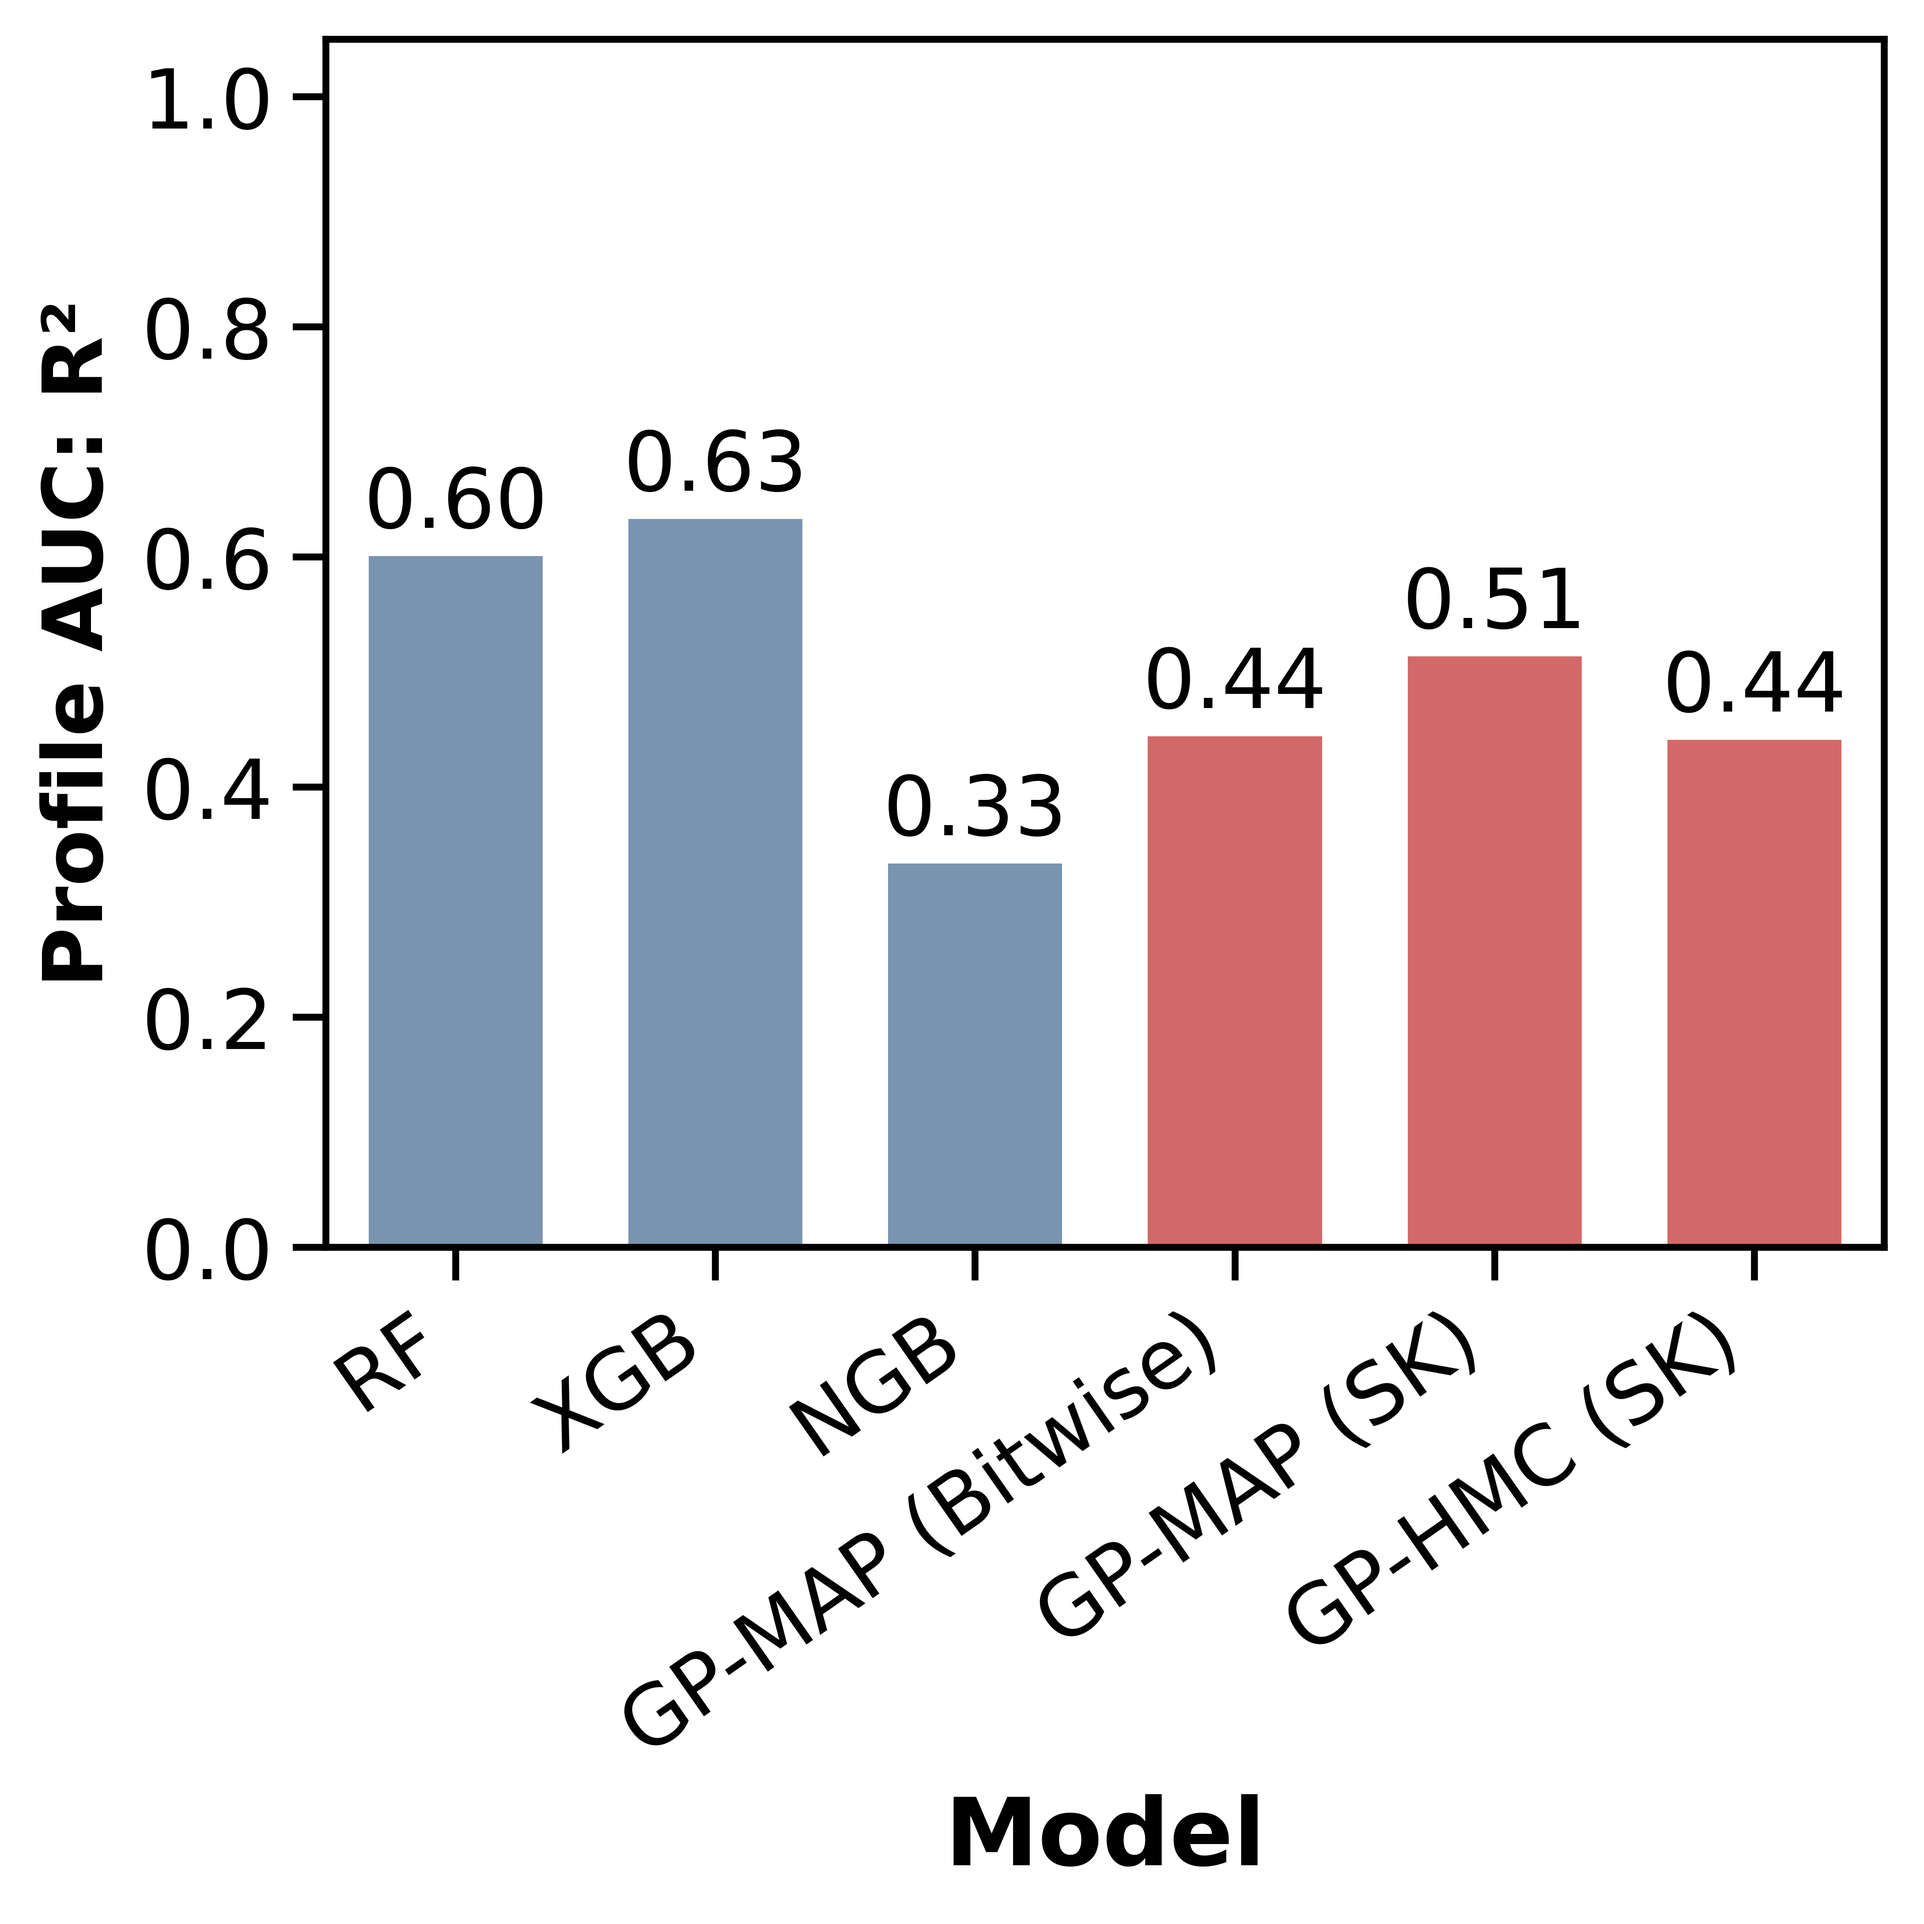
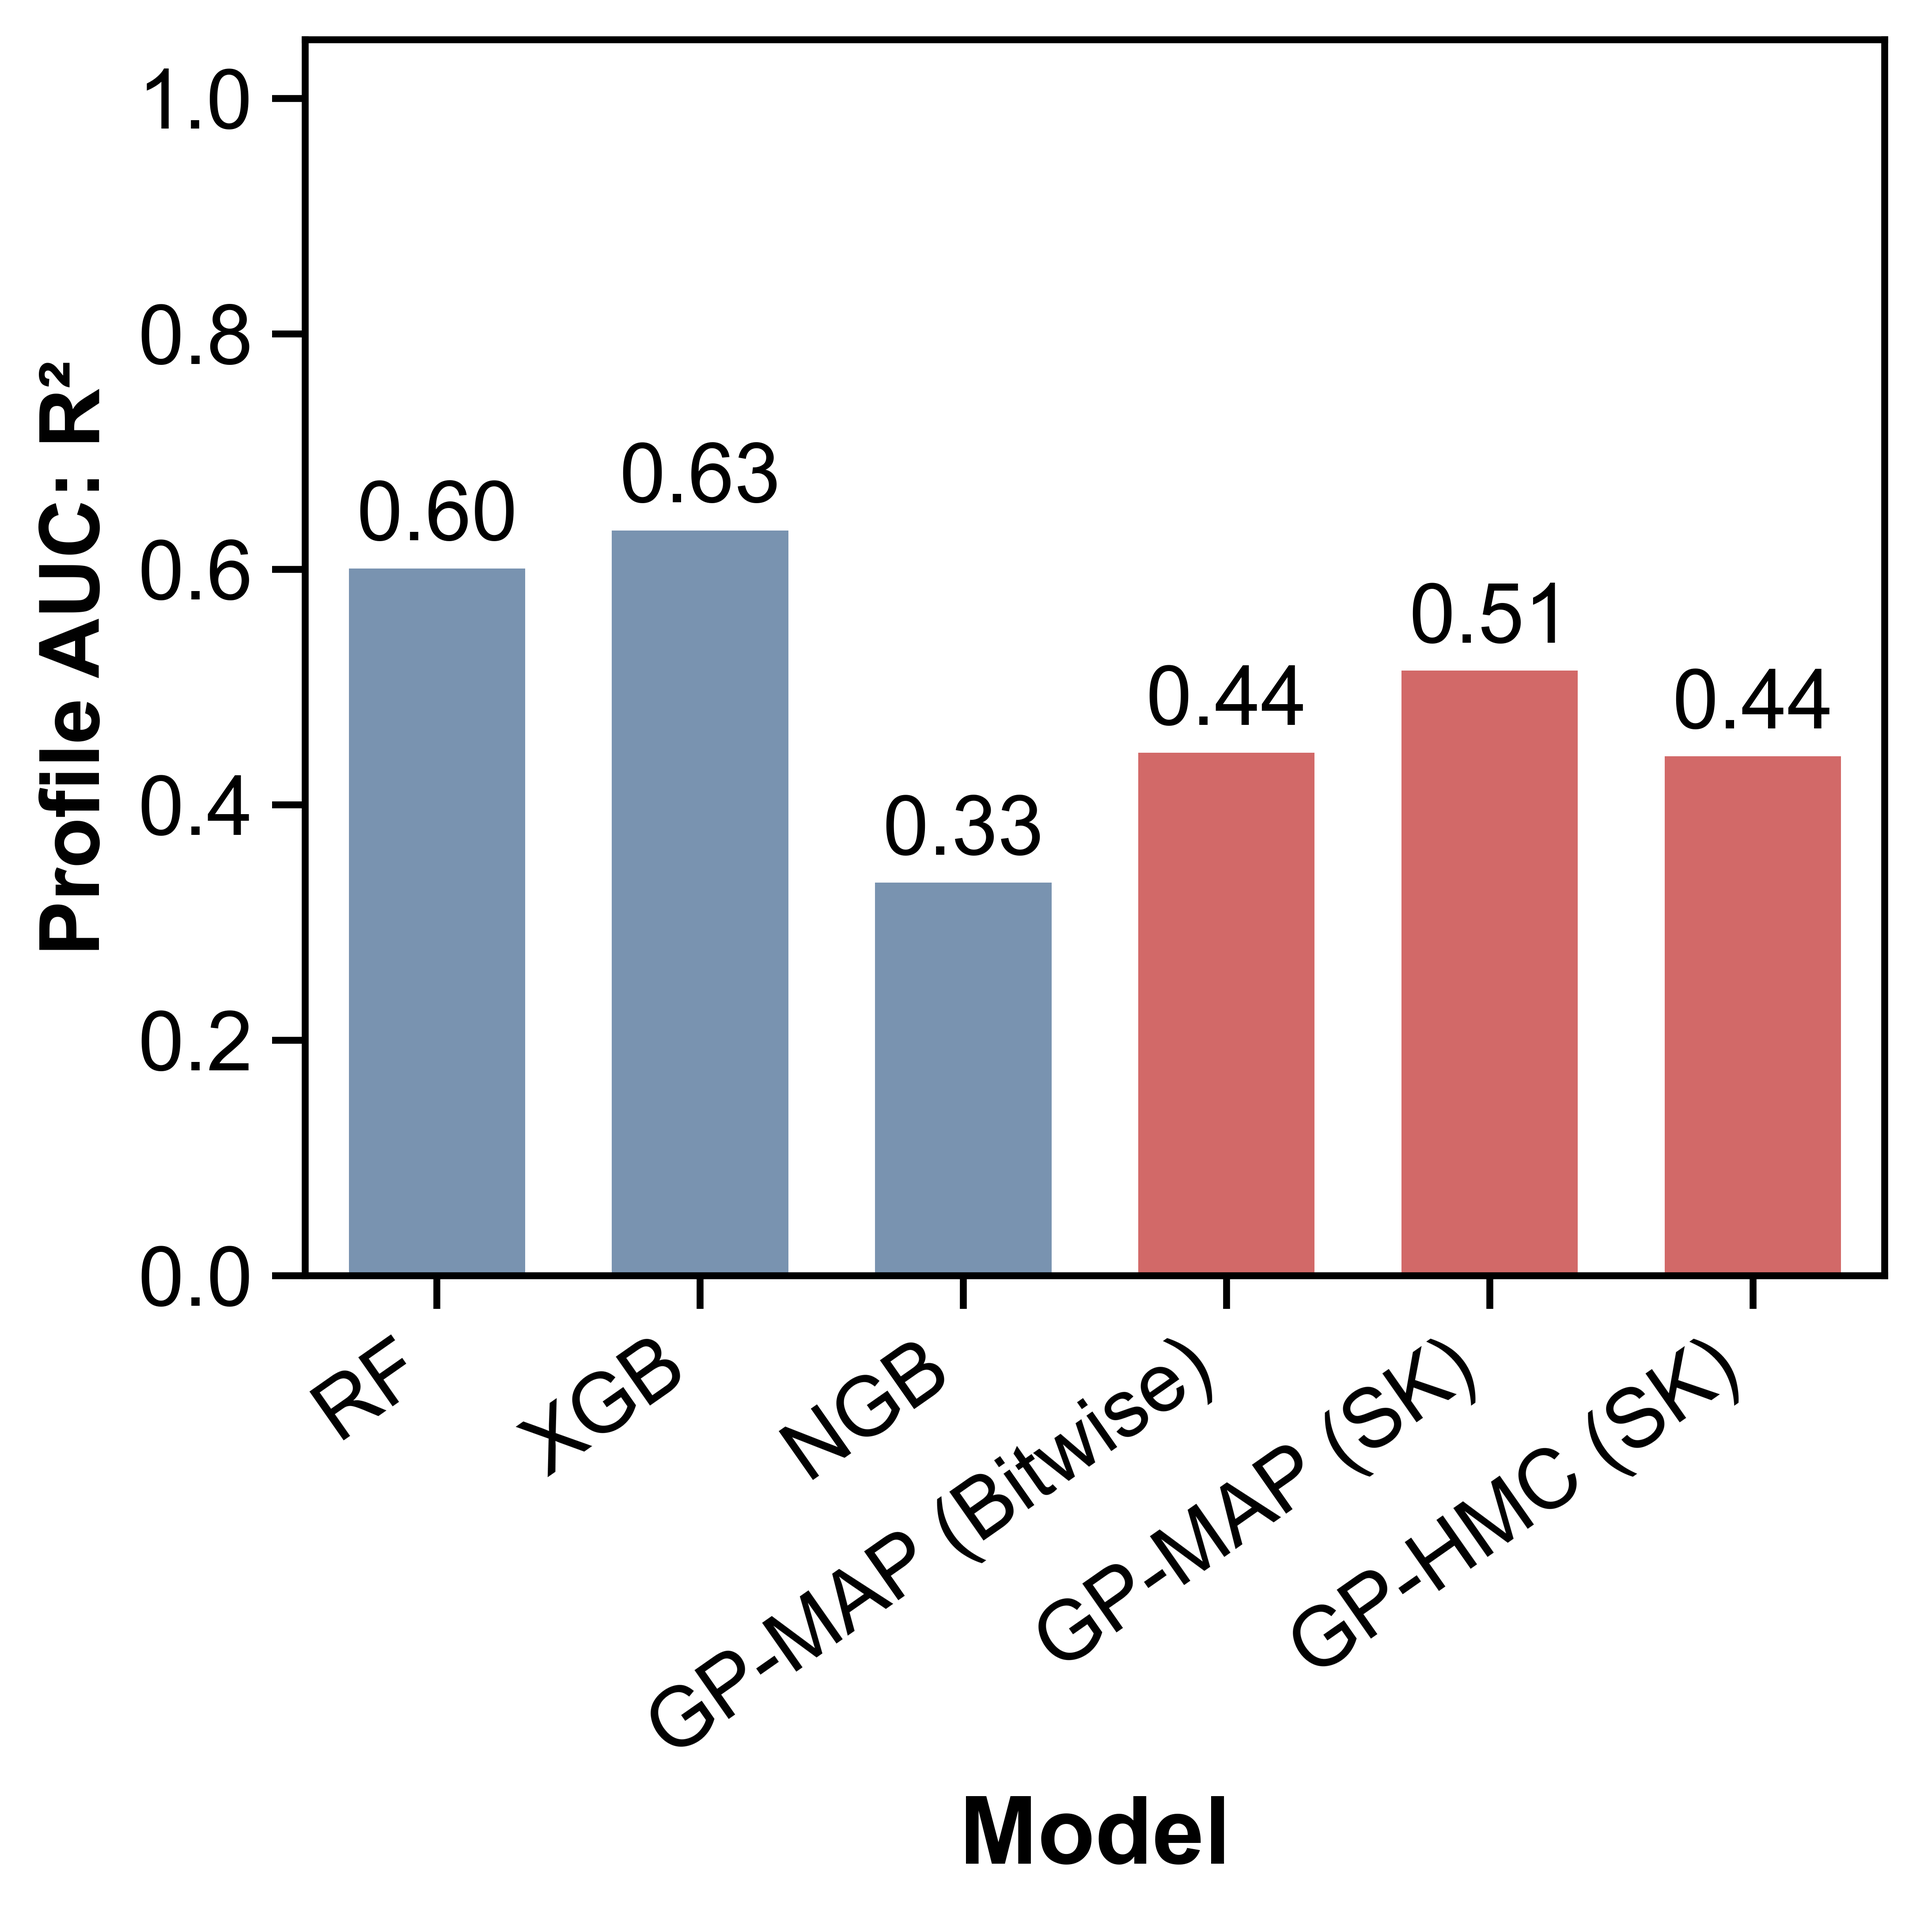
updated

Changed region(s): [[0.0, 0.0, 0.9679, 0.9308], [0.4683, 0.9308, 0.6556, 0.9929]]

diff --git a/code_python/visualization/visualize_gp.py b/code_python/visualization/visualize_gp.py
@@ -6123,14 +6123,14 @@ if __name__ == "__main__":
             ("TanimotoMatern32", "Matern32", "averageProduct"),
             # ("Graph", "Matern32", "product"),
         ],
-        metric="feature_stability",
-        tolerance=0.01,
-        tree_feature_importance="MDI",
-        y_label="Profile AUC: Kendall's W",
+        metric="r2",
+        # tolerance=0.01,
+        # tree_feature_importance="MDI",
+        y_label="Profile AUC: R²",
         fontsize=17,
         figsize=(5, 5),
         save_dir=HERE / "result_analysis"/"performance_profile"/"model_comparison",
-        file_name="feature_stability_0.01%tol_tree_method_MDI_lengthscale_profile_comparison.png",
+        file_name="R2_model_profile_comparison.png",
     )
 
 
